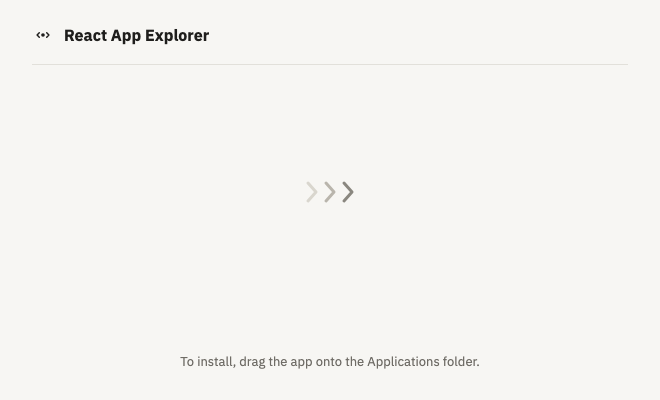
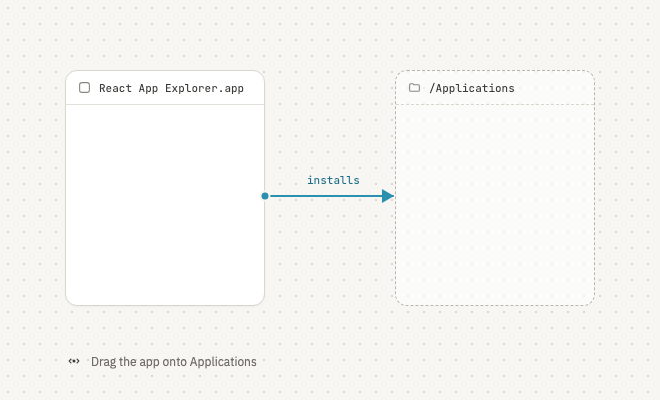
Desktop .dmg: the diagram design, in the light palette
The installer window as the app draws a diagram, now on Paper: the app in a white file frame,
Applications in a dashed folder frame, a cyan "installs" relation, the dot grid. Light in both
appearances (Finder draws a picture on white and keeps the names black over it).

diff --git a/packages/desktop/dmg/background.html b/packages/desktop/dmg/background.html
@@ -1,12 +1,13 @@
 <!doctype html>
 <!--
-  The .dmg window's background (660 × 400, Finder's window), in the app's Paper palette: the mark and
-  name, a hairline, three chevrons from the app (165,192) to Applications (495,192), and how to
-  install. Light in both appearances on purpose: Finder puts a background picture on white even in
-  Dark Mode (transparency doesn't let its dark window through) and keeps the icons' names black over
-  one, so a light picture is the one that reads either way. Rendered to background.png and
-  background@2x.png by render.ts; fonts come from the design system's bundled files (render.ts puts their
-  @font-face rules in place of FONTS below).
+  The .dmg window's background (660 × 400, Finder's window), drawn like the app draws a diagram, in its
+  light (Paper) palette: the app in a file frame, Applications in a dashed folder frame, an "installs"
+  relation between them, on the canvas's dot grid. Finder draws the two icons and their names in the
+  frames (package.ts: app at 165,192, Applications at 495,192). Light in both appearances on purpose:
+  Finder draws a background picture on white even in Dark Mode (transparency doesn't let its dark
+  window through) and keeps the icons' names black over one, so a light picture reads either way.
+  Rendered to background.png and background@2x.png by render.ts; fonts come from the design system's
+  bundled files (render.ts puts their @font-face rules in place of FONTS below).
 -->
 <html lang="en">
 <head>
@@ -14,27 +15,54 @@
 <style>
 /*FONTS*/
 html, body { margin: 0; background: #F7F6F3; }
-.window { position: relative; width: 660px; height: 400px; overflow: hidden; font-family: "IBM Plex Sans Variable", system-ui, sans-serif; color: #1F1E1C; background: #F7F6F3; }
-.top { position: absolute; left: 32px; right: 32px; top: 24px; display: flex; align-items: center; gap: 10px; }
-.name { flex: 1; font-size: 16px; font-weight: 700; }
-.rule { position: absolute; left: 32px; right: 32px; top: 64px; border-top: 1px solid #E2E0DA; }
-.chevrons { position: absolute; left: 290px; top: 180px; width: 80px; display: flex; justify-content: center; gap: 4px; }
-.hint { position: absolute; left: 0; right: 0; bottom: 30px; text-align: center; font-size: 13px; color: #6F6C66; }
+.window {
+  position: relative; width: 660px; height: 400px; overflow: hidden;
+  background-color: #F7F6F3;
+  background-image: radial-gradient(#DAD7CF 1.2px, transparent 1.2px);
+  background-size: 16px 16px;
+  font-family: "IBM Plex Sans Variable", system-ui, sans-serif; color: #1F1E1C;
+}
+.frame { position: absolute; top: 70px; width: 200px; height: 236px; box-sizing: border-box; border-radius: 12px; }
+.frame--app { left: 65px; border: 1px solid #D9D6CE; background: #FFFFFF; box-shadow: 0 1px 2px rgba(31, 30, 28, 0.04); }
+.frame--folder { left: 395px; border: 1px dashed #B9B5AC; background: rgba(255, 255, 255, 0.55); }
+.frame__head {
+  height: 34px; box-sizing: border-box; display: flex; align-items: center; gap: 8px; padding: 0 12px;
+  font-family: "JetBrains Mono Variable", ui-monospace, monospace; font-size: 11px; color: #3D3B37;
+  white-space: nowrap; overflow: hidden;
+}
+.frame--app .frame__head { border-bottom: 1px solid #E2E0DA; }
+.frame--folder .frame__head { border-bottom: 1px dashed #D9D6CE; }
+.label {
+  position: absolute; left: 300px; top: 172px; padding: 1px 7px; border-radius: 4px; background: #F7F6F3;
+  font-family: "JetBrains Mono Variable", ui-monospace, monospace; font-size: 11px; color: #1D6F86;
+}
+.hint { position: absolute; left: 65px; bottom: 30px; display: flex; align-items: center; gap: 8px; color: #6F6C66; font-size: 12px; }
 </style>
 </head>
 <body>
 <div class="window">
-  <div class="top">
-    <svg width="22" height="22" viewBox="0 0 96 96"><g fill="none" stroke="#1F1E1C" stroke-width="6.5" stroke-linecap="round" stroke-linejoin="round"><path d="M31.75 57.5 22.25 48 31.75 38.5"/><path d="M64.25 57.5 73.75 48 64.25 38.5"/><circle cx="48" cy="48" r="8" fill="#1F1E1C" stroke="none"/></g></svg>
-    <span class="name">React App Explorer</span>
+  <div class="frame frame--app">
+    <div class="frame__head">
+      <svg width="13" height="13" viewBox="0 0 24 24" fill="none" stroke="#8A877F" stroke-width="2" stroke-linecap="round" stroke-linejoin="round"><rect x="3" y="3" width="18" height="18" rx="4"/></svg>
+      React App Explorer.app
+    </div>
   </div>
-  <div class="rule"></div>
-  <div class="chevrons">
-    <svg width="14" height="24" viewBox="0 0 14 24"><path d="M3 3 L11 12 L3 21" fill="none" stroke="#D9D6CE" stroke-width="3" stroke-linecap="round" stroke-linejoin="round"/></svg>
-    <svg width="14" height="24" viewBox="0 0 14 24"><path d="M3 3 L11 12 L3 21" fill="none" stroke="#B9B5AC" stroke-width="3" stroke-linecap="round" stroke-linejoin="round"/></svg>
-    <svg width="14" height="24" viewBox="0 0 14 24"><path d="M3 3 L11 12 L3 21" fill="none" stroke="#8A877F" stroke-width="3" stroke-linecap="round" stroke-linejoin="round"/></svg>
+  <div class="frame frame--folder">
+    <div class="frame__head">
+      <svg width="13" height="13" viewBox="0 0 24 24" fill="none" stroke="#8A877F" stroke-width="2" stroke-linecap="round" stroke-linejoin="round"><path d="M3 7a2 2 0 0 1 2-2h4l2 2h8a2 2 0 0 1 2 2v8a2 2 0 0 1-2 2H5a2 2 0 0 1-2-2z"/></svg>
+      /Applications
+    </div>
   </div>
-  <p class="hint" style="margin: 0">To install, drag the app onto the Applications folder.</p>
+  <svg width="660" height="400" viewBox="0 0 660 400" style="position: absolute; inset: 0">
+    <path d="M265 196 C 320 196, 340 196, 393 196" fill="none" stroke="#2B8FAE" stroke-width="2" stroke-linecap="round"/>
+    <circle cx="265" cy="196" r="4.5" fill="#2B8FAE" stroke="#F7F6F3" stroke-width="2"/>
+    <path d="M382 189 L 394 196 L 382 203 z" fill="#2B8FAE"/>
+  </svg>
+  <span class="label">installs</span>
+  <div class="hint">
+    <svg width="18" height="18" viewBox="0 0 96 96"><g fill="none" stroke="#3D3B37" stroke-width="6" stroke-linecap="round" stroke-linejoin="round"><path d="M31.75 57.5 22.25 48 31.75 38.5"/><path d="M64.25 57.5 73.75 48 64.25 38.5"/><circle cx="48" cy="48" r="8" fill="#3D3B37" stroke="none"/></g></svg>
+    Drag the app onto Applications
+  </div>
 </div>
 </body>
 </html>

diff --git a/.claude/skills/desktop/SKILL.md b/.claude/skills/desktop/SKILL.md
@@ -29,8 +29,9 @@ description: Build, run or change the desktop app (Electron, packages/desktop) a
   `dev.rae.explorer`, the version from `package.json`, `LSMinimumSystemVersion` 13.0 — Bun's minimum),
   the sidecar, `tsgo/` and `loading/` as resources, ad-hoc signed (nested executables first), and a
   `.dmg` in `out/` made by **appdmg**: its window (660 × 400) is `dmg/background.png` + `@2x` (combined
-  into a Retina TIFF) in the Paper palette: the mark and name, a hairline, three chevrons from the app
-  (165,192) to Applications (495,192), how to install. Icons 128 px; the app icon is the volume's.
+  into a Retina TIFF), drawn like the app draws a diagram in its Paper palette: the app in a file frame,
+  Applications in a dashed folder frame, an "installs" relation, on the dot grid; Finder's icons sit in
+  the frames (165,192 / 495,192). Icons 128 px; the app icon is the volume's.
   **Light in both appearances, on purpose**: Finder draws a background picture on white even in Dark Mode
   (a transparent one doesn't let its dark window through; only a window with no picture follows the
   appearance) and keeps the icons' names black over a picture, so a light picture reads either way.
